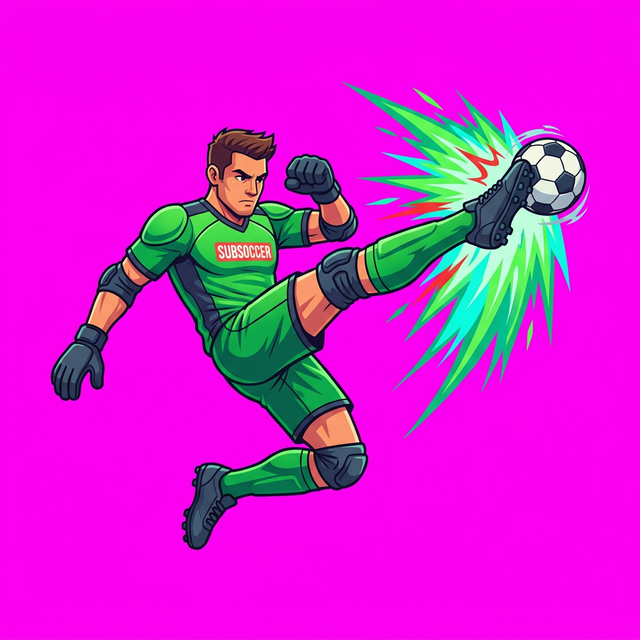
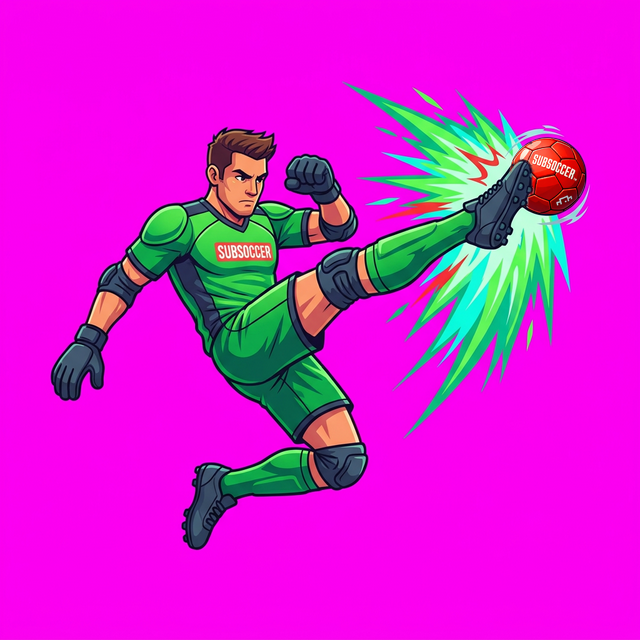
chore(ai): Add cache buster to goalie_powermove.png after user replaced the image locally

Changed region(s): [[0.7812, 0.2188, 0.9375, 0.3438]]

diff --git a/flick-game.js b/flick-game.js
@@ -144,7 +144,7 @@ window.isPlaying = false;
         
         goalie.powerMoveImg.src = tempCanvas.toDataURL('image/png');
     };
-    rawPowerMoveImg.src = 'goalie_powermove.png';
+    rawPowerMoveImg.src = 'goalie_powermove.png?v=' + Date.now(); // Cache buster
 
     // stadiumImg defined above to support resize handler
 
